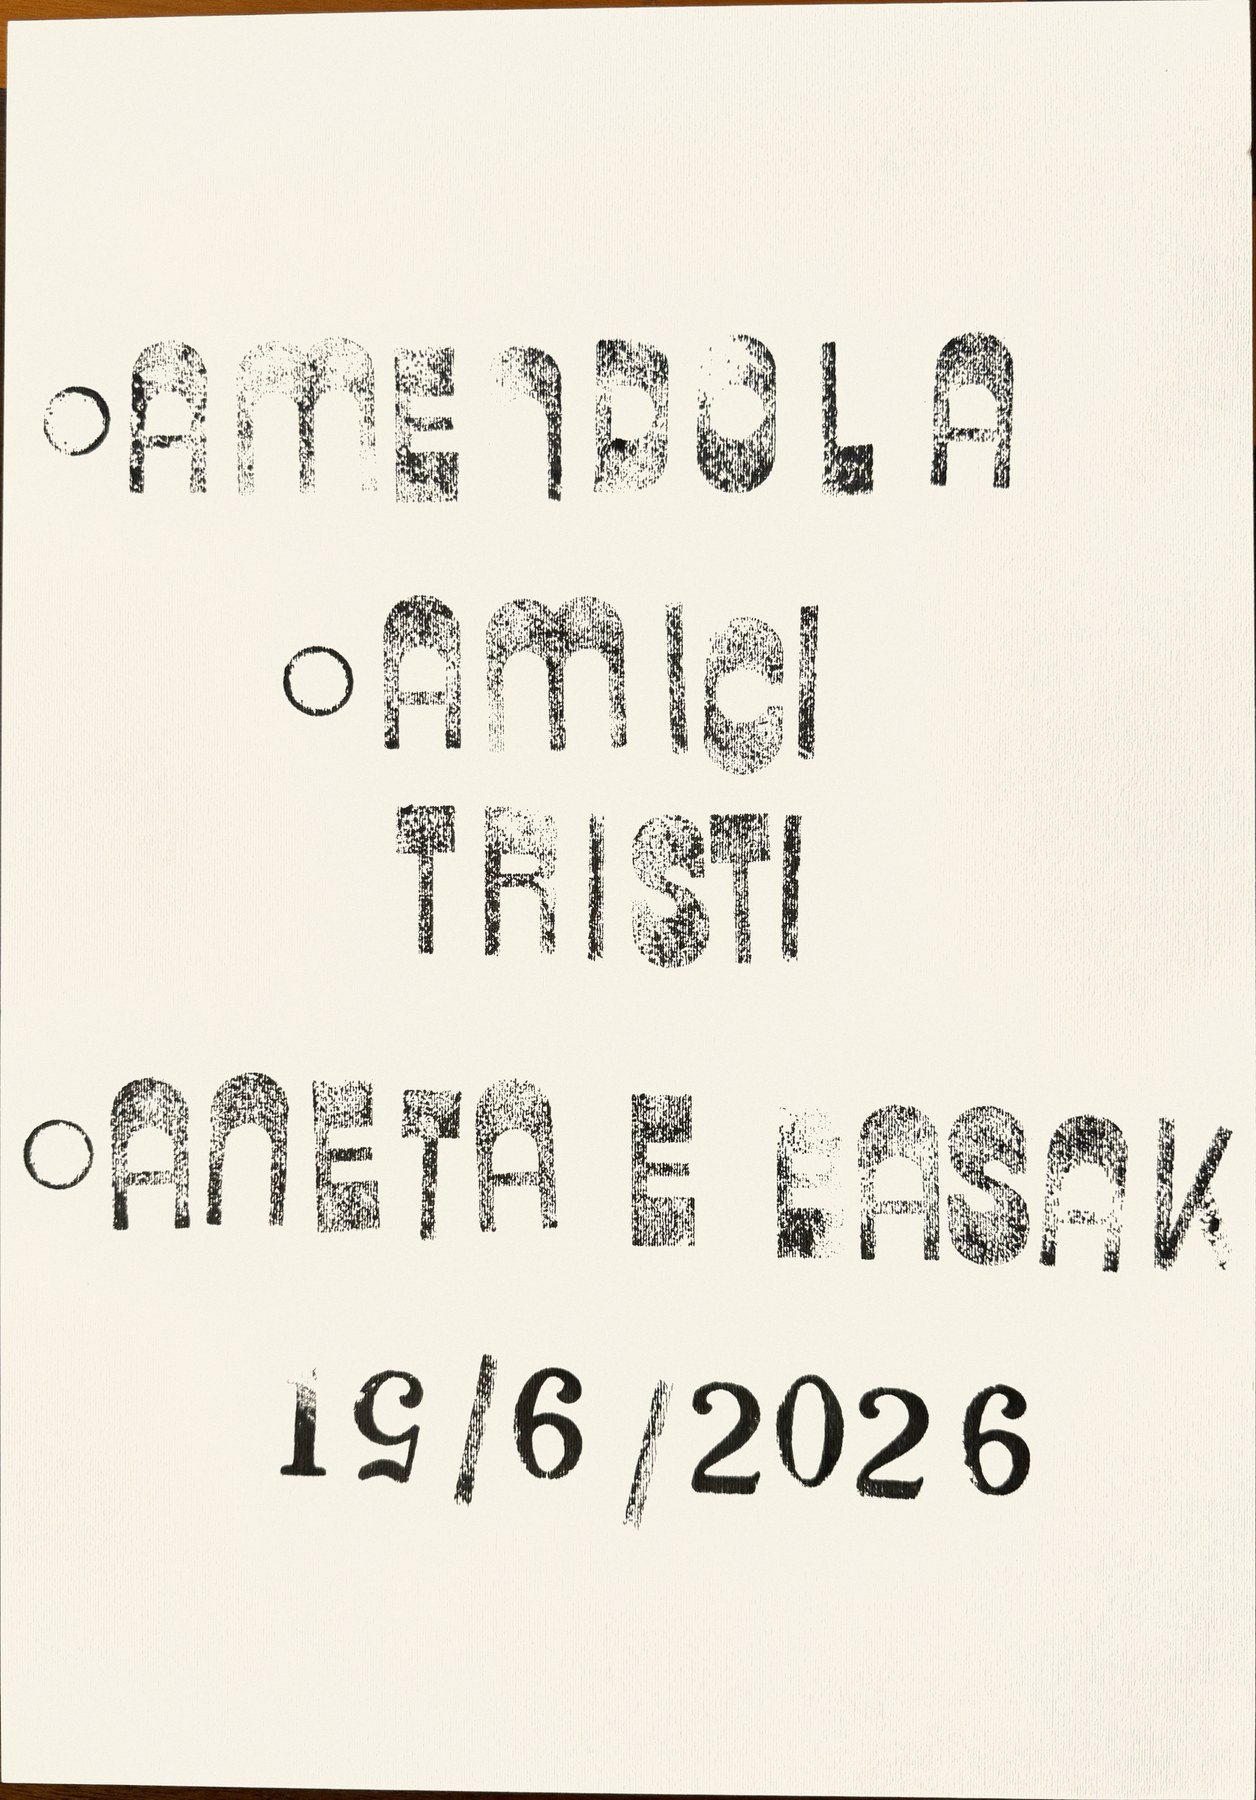
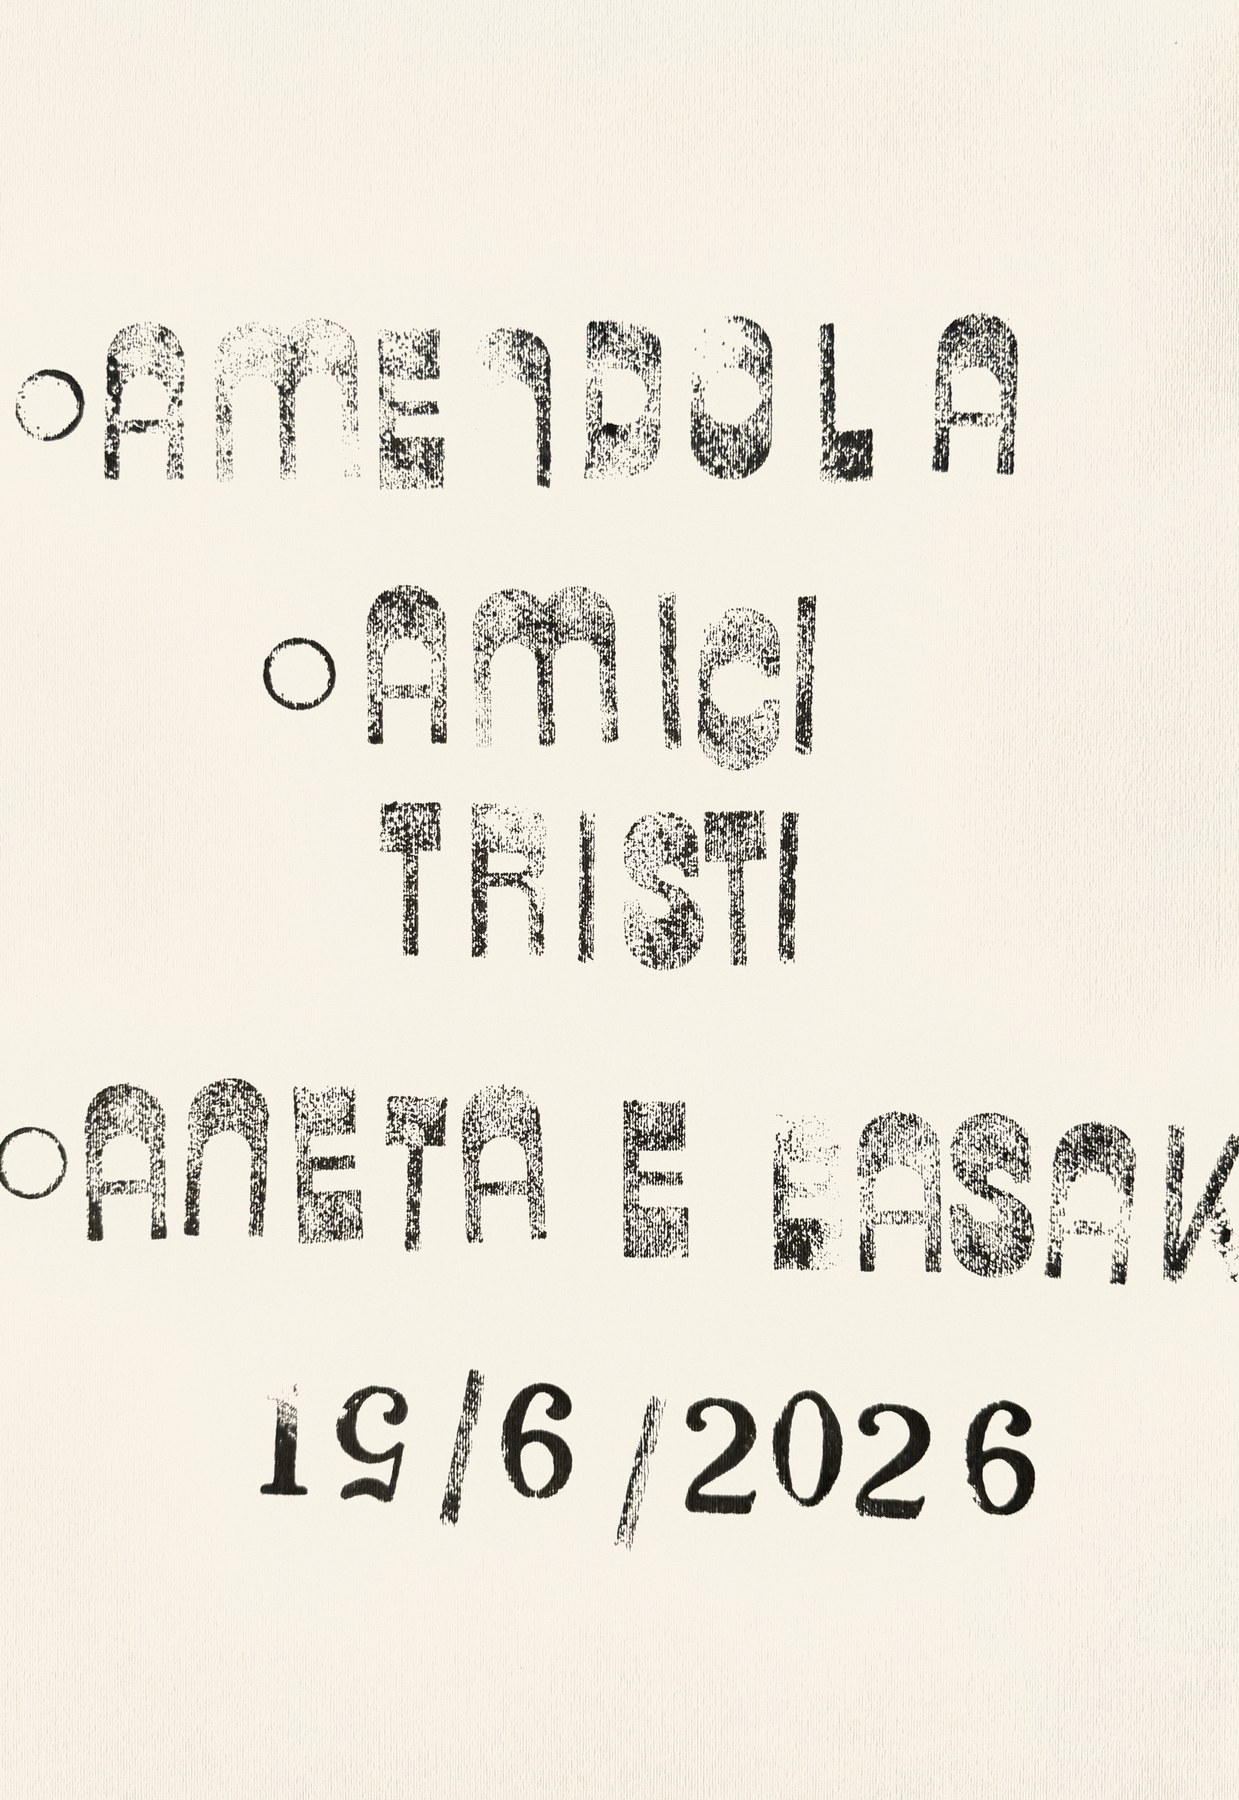
fix: 15/6 bordi crema puri (erosione bbox +80px)

diff --git a/index.html b/index.html
@@ -672,11 +672,11 @@ section#timbri{ padding-top: clamp(160px, 18vw, 240px); }
       <figcaption class="work-caption"><span class="work-date">16/6/26</span></figcaption>
     </figure>
     <figure class="work">
-      <div class="work-frame" style="--ratio: 143.31%;">
+      <div class="work-frame" style="--ratio: 145.28%;">
         <img src="foto_definitive/Timbro_2026-06-15.jpg"
              srcset="foto_definitive/thumbs/Timbro_2026-06-15.jpg 800w, foto_definitive/Timbro_2026-06-15.jpg 1800w"
              sizes="(max-width: 720px) 92vw, 720px"
-             width="1256" height="1800"
+             width="1239" height="1800"
              alt="15/6/26" loading="lazy" decoding="async" />
       </div>
       <figcaption class="work-caption"><span class="work-date">15/6/26</span></figcaption>
